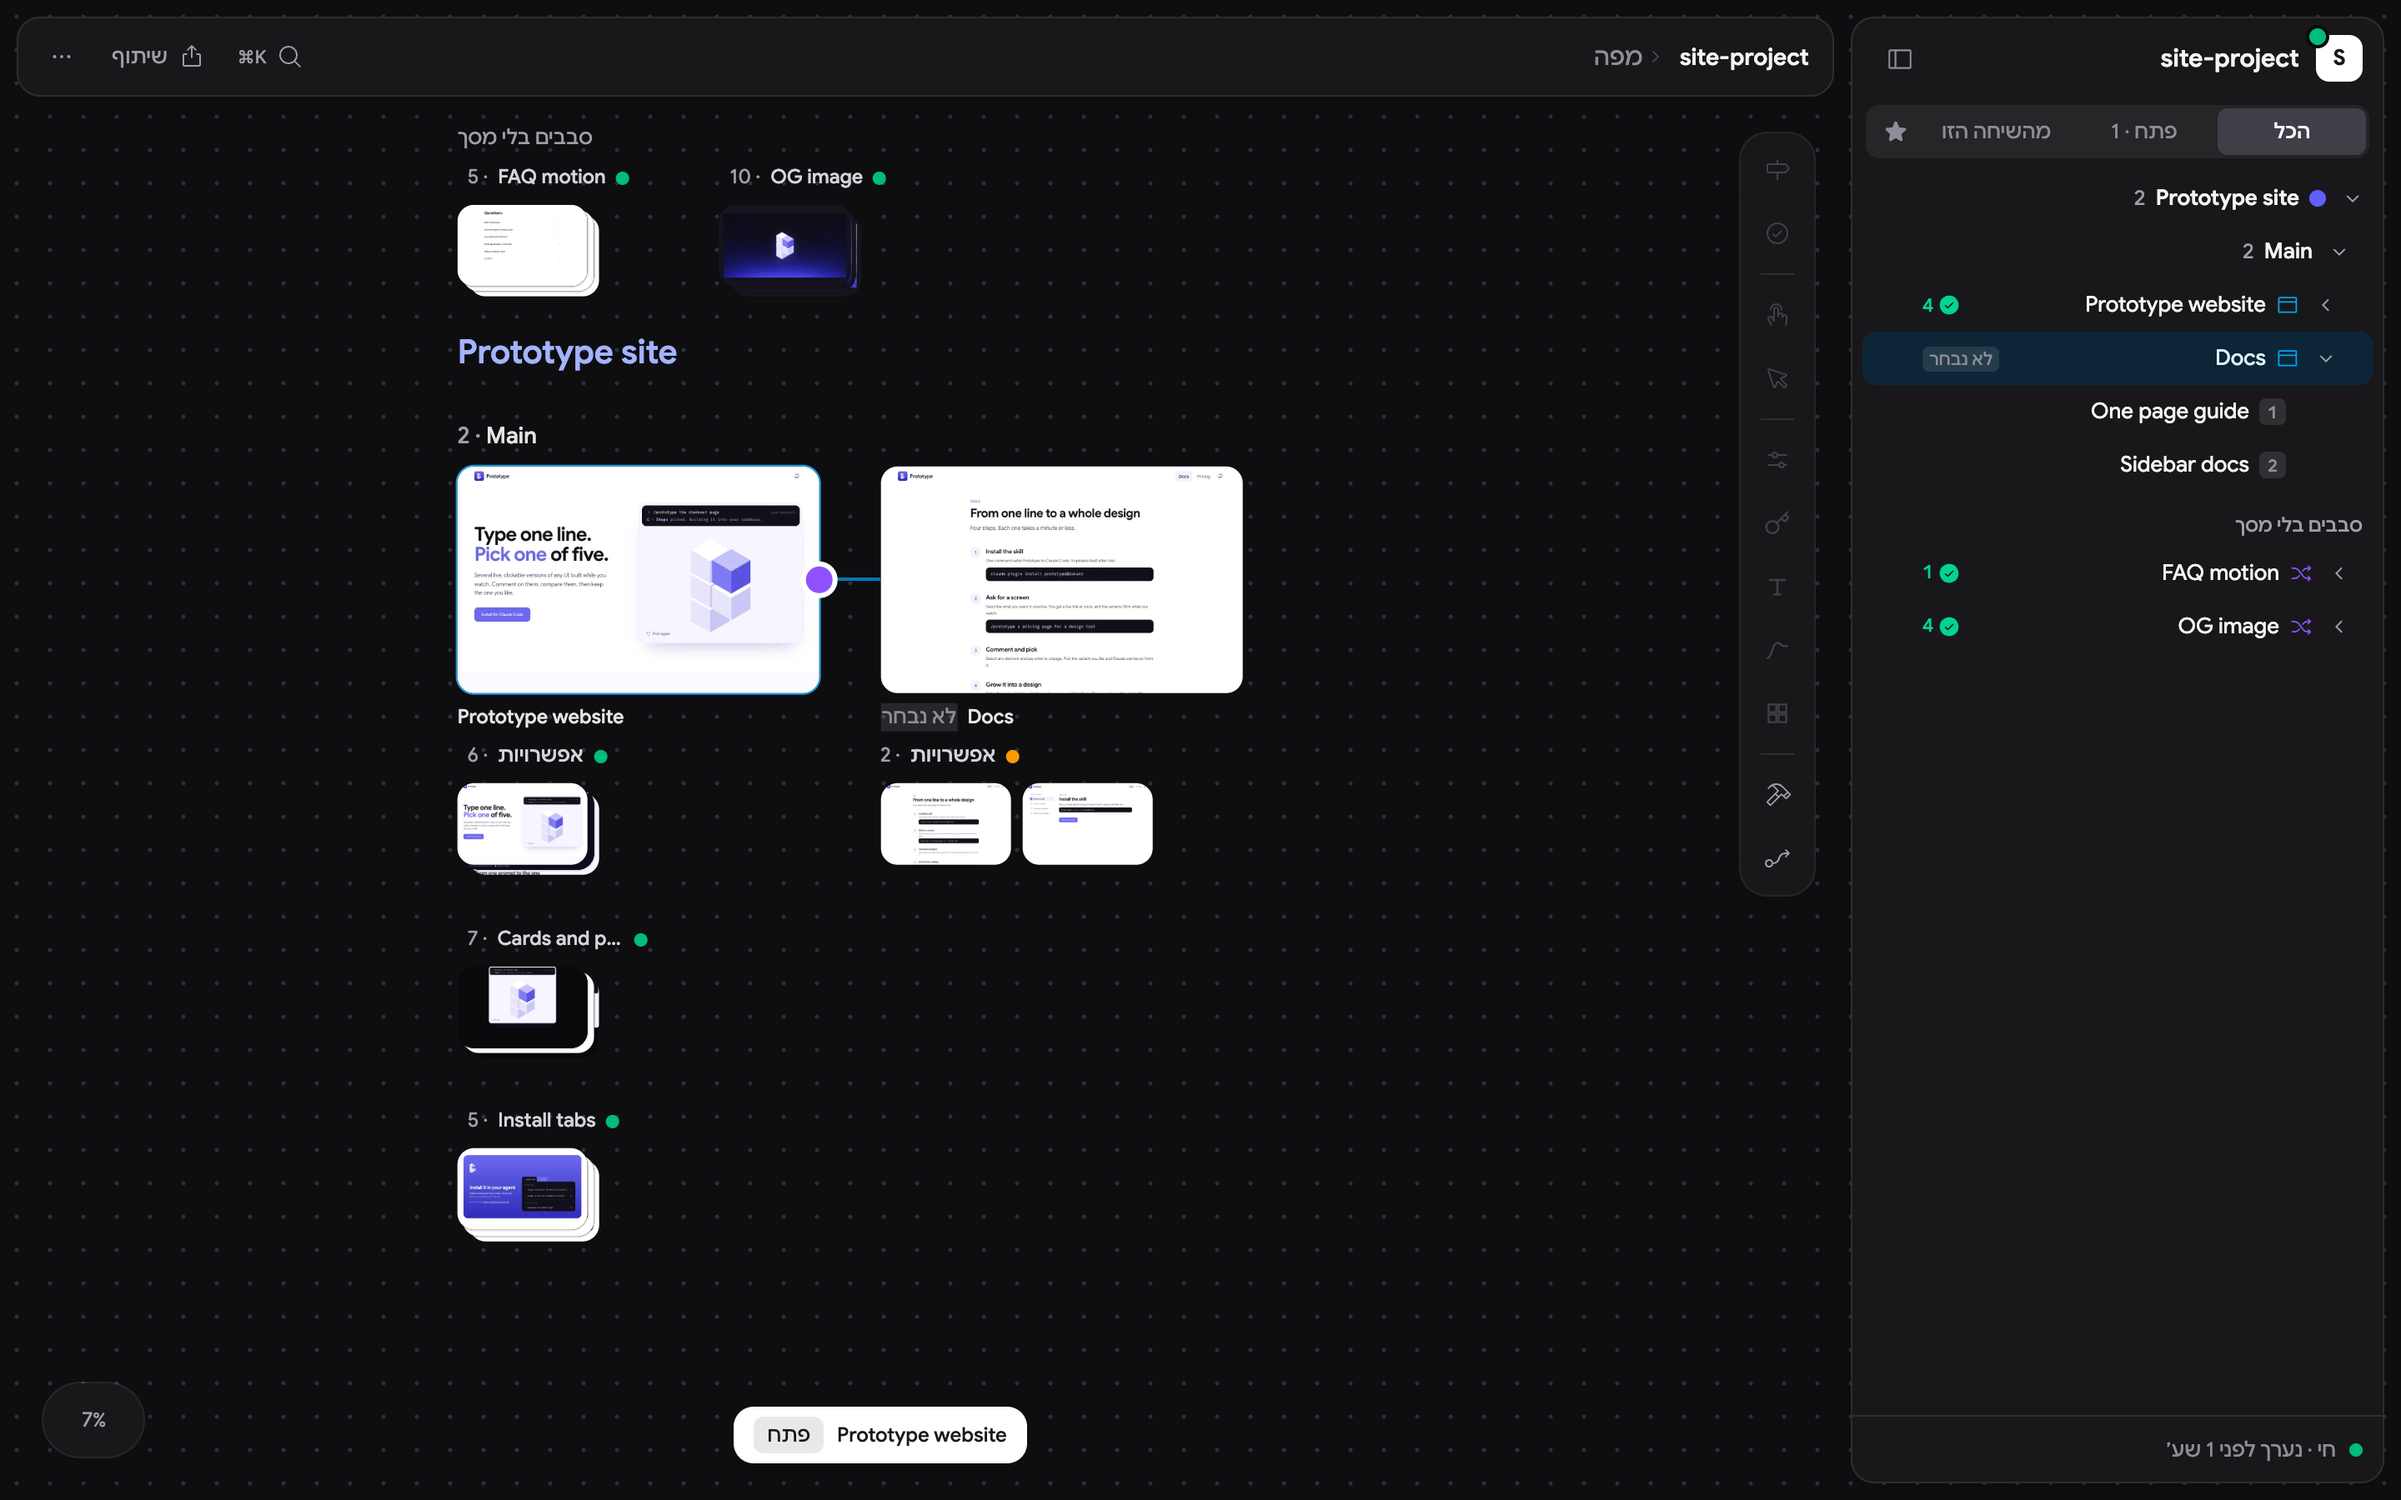
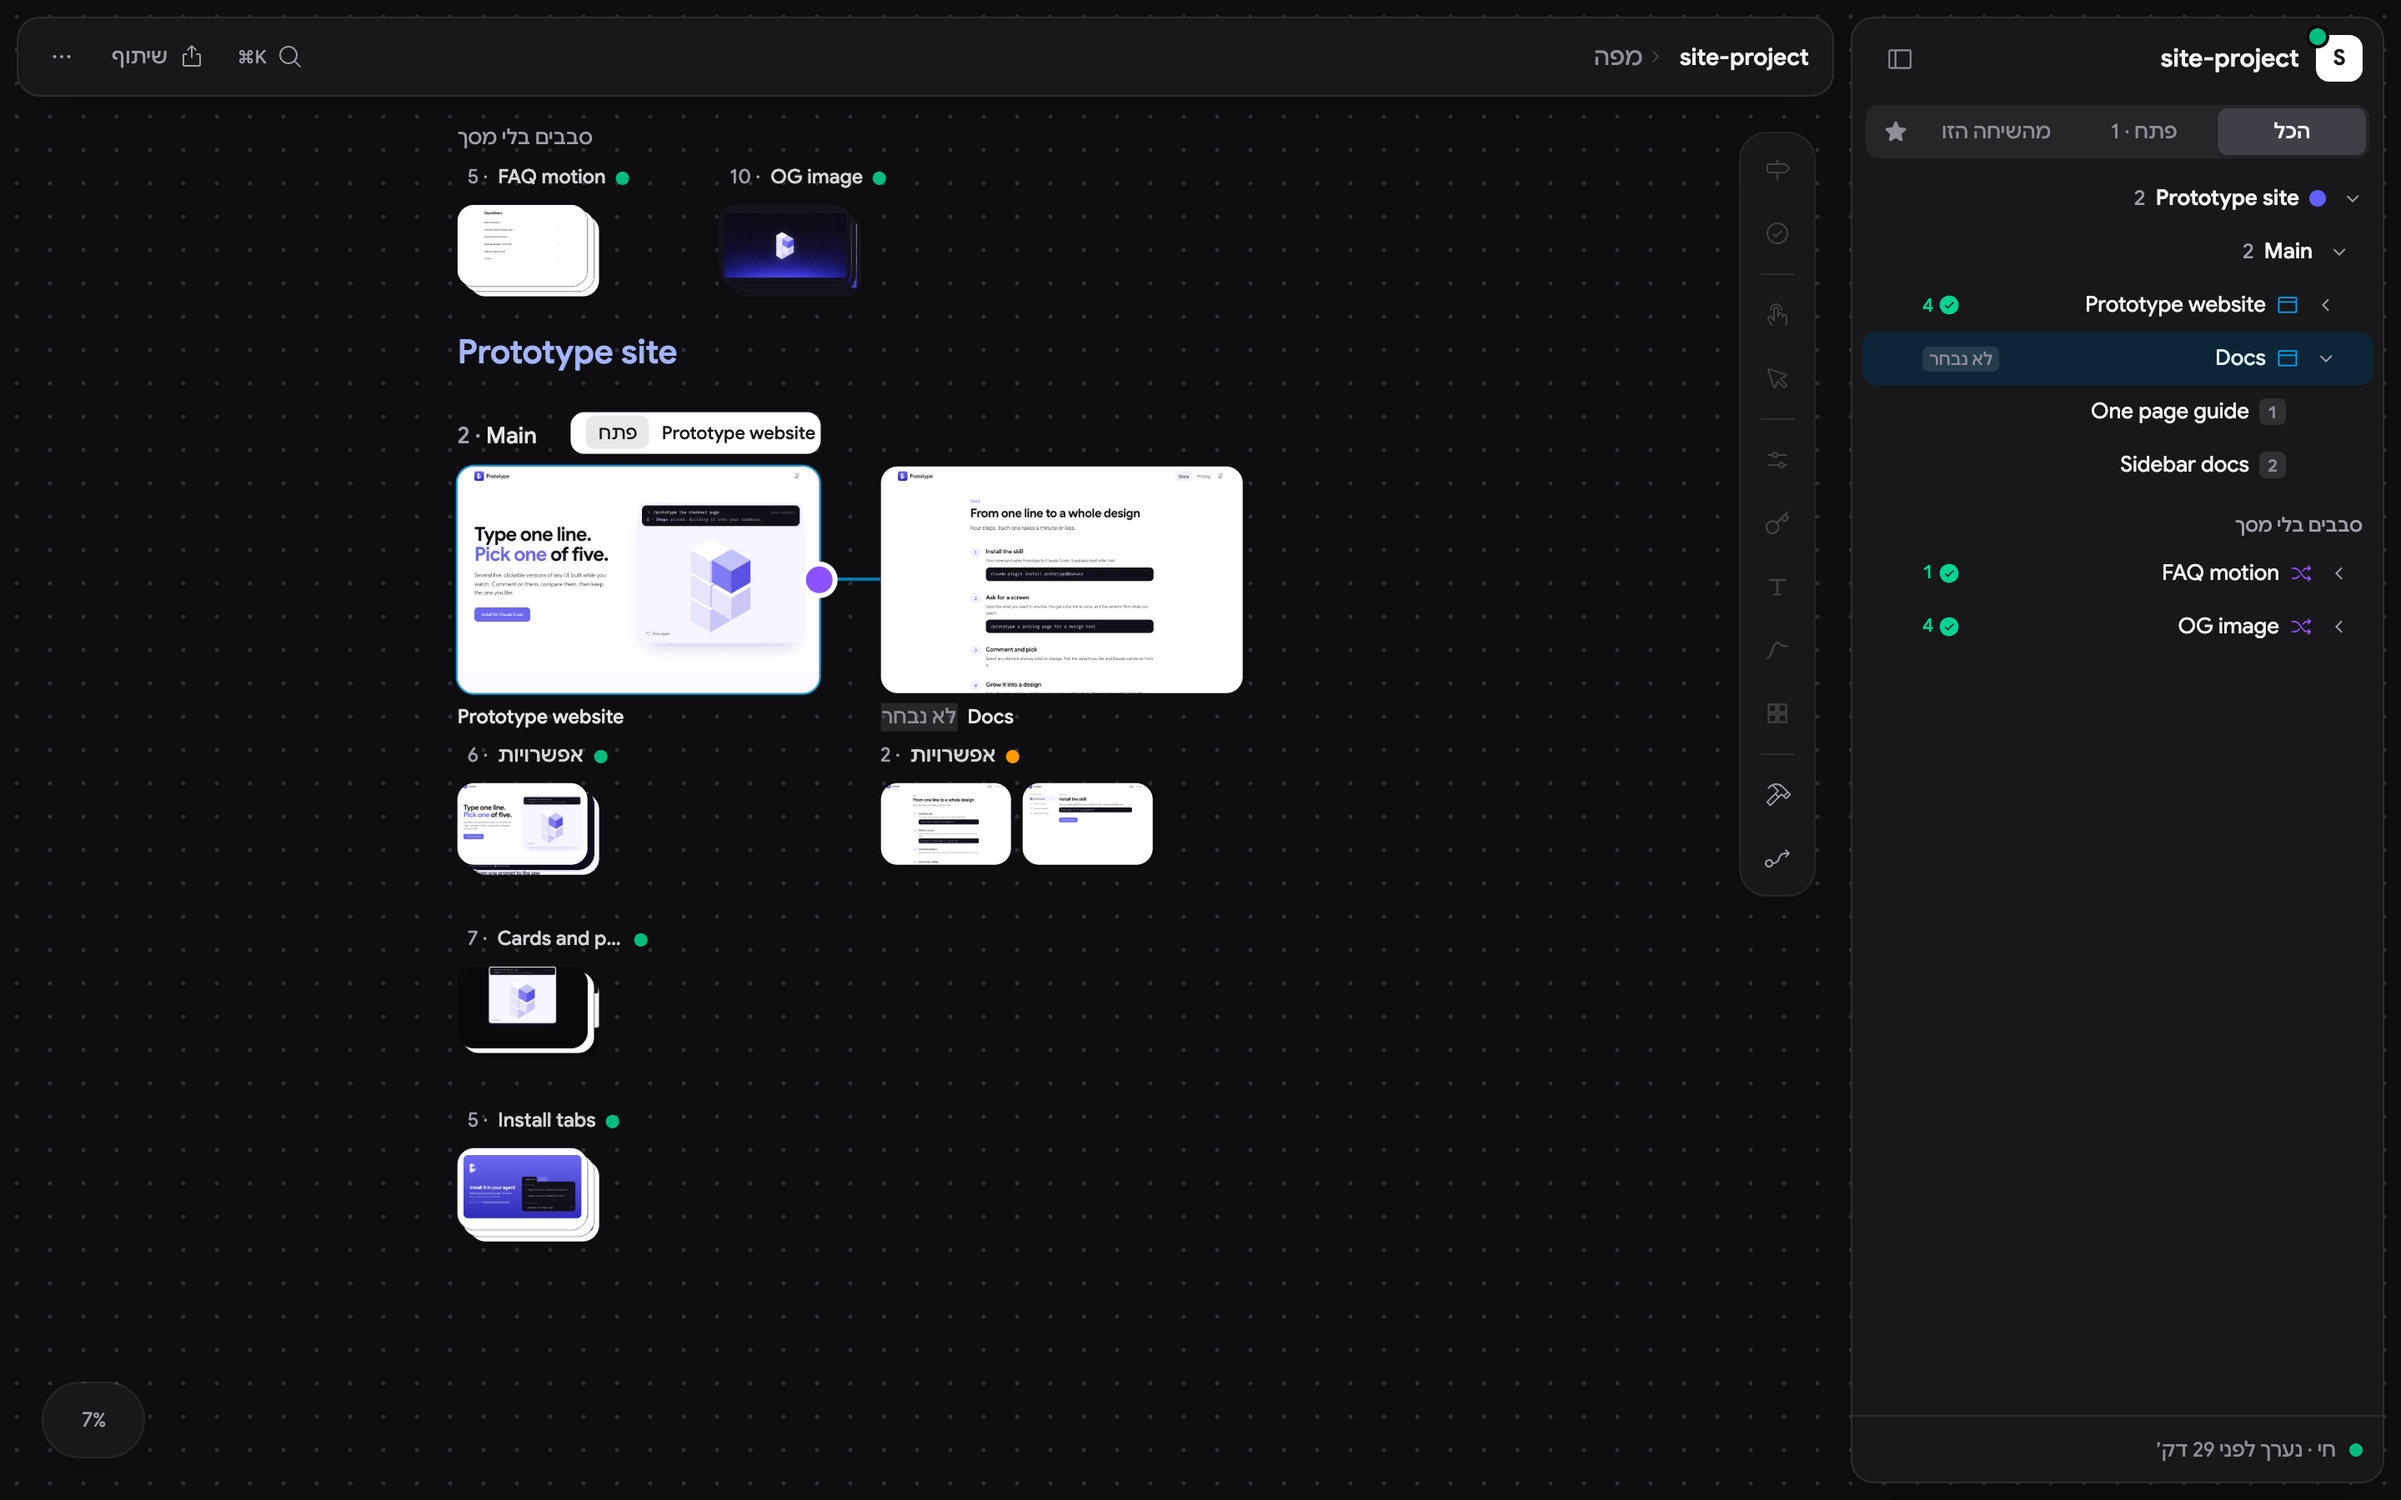
fix: the selected board's name and Open sit on its corner, not under the comments island
The map's selection bar was centred at the foot of the stage, where the island rests, so it showed
as a white bar behind it. It is a chip on the selected board's top corner now, one size on screen.

Changed region(s): [[0.2812, 0.9333, 0.4375, 0.9956], [0.2188, 0.2489, 0.3438, 0.3111]]

diff --git a/app/shell/map/index.tsx b/app/shell/map/index.tsx
@@ -338,7 +338,7 @@ function MapView({ api }: { api: MapApi }) {
     const el = view.current!, pts = new Map<number, { x: number; y: number }>()
     let last: { x: number; y: number; d: number } | null = null, moved = 0
     const mid = () => { const p = [...pts.values()]; const x = p.reduce((a, q) => a + q.x, 0) / p.length, y = p.reduce((a, q) => a + q.y, 0) / p.length; return { x, y, d: p.length > 1 ? Math.hypot(p[0].x - p[1].x, p[0].y - p[1].y) : 0 } }
-    const down = (e: PointerEvent) => { if (e.button > 1 || (e.target as HTMLElement).closest?.('[data-map-handle], [data-map-note], [data-map-tools], [data-map-slot]')) return; pts.set(e.pointerId, { x: e.clientX, y: e.clientY }); last = mid(); moved = 0; dragged.current = 0 }
+    const down = (e: PointerEvent) => { if (e.button > 1 || (e.target as HTMLElement).closest?.('[data-map-handle], [data-map-note], [data-map-tools], [data-map-slot], [data-map-chip]')) return; pts.set(e.pointerId, { x: e.clientX, y: e.clientY }); last = mid(); moved = 0; dragged.current = 0 }
     const move = (e: PointerEvent) => {
       if (!pts.has(e.pointerId)) return
       pts.set(e.pointerId, { x: e.clientX, y: e.clientY })
@@ -536,6 +536,15 @@ function MapView({ api }: { api: MapApi }) {
             </g>)}
             {drag && <path data-map-drag d={`M${drag.from.x + drag.from.w},${drag.from.y + drag.from.h / 2} L${drag.x},${drag.y}`} fill="none" className="stroke-violet-500" style={{ strokeWidth: 'calc(2px * var(--iz))', strokeDasharray: 'calc(6px * var(--iz))' }} />}
           </svg>
+          {selBoard && selBoard !== focusBoard && !note && !build && (
+            // The selected board's chip, on its top corner (one size on screen): its name and Open, as a click on
+            // the board does. On the board, not at the foot of the stage, where the comments island rests.
+            <div data-map-chip className="absolute z-30 flex items-center whitespace-nowrap bg-zinc-900 text-white shadow-lg dark:bg-white dark:text-zinc-900"
+              style={{ left: selBoard.x + selBoard.w, top: selBoard.y, transform: 'translate(-100%, calc(-100% - 8px * var(--lz)))', fontSize: 'calc(12px * var(--lz))', gap: 'calc(8px * var(--lz))', borderRadius: 'calc(9px * var(--lz))', padding: 'calc(3px * var(--lz)) calc(3px * var(--lz)) calc(3px * var(--lz)) calc(10px * var(--lz))' }}>
+              <span dir="auto" className="font-medium">{selBoard.title}</span>{selBoard.kind === 'option' && <span className="opacity-60">#{numberOf(selBoard.letter)}</span>}
+              <button type="button" data-map-open onClick={e => { e.stopPropagation(); openBoard(selBoard) }} className="bg-white/15 dark:bg-zinc-900/10" style={{ borderRadius: 'calc(6px * var(--lz))', padding: 'calc(2px * var(--lz)) calc(8px * var(--lz))' }}>{t('Open')}</button>
+            </div>
+          )}
           {world.labels.map(l => (
             // Above its anchor, one size on screen: a design's name over its first flow's, a flow's over its row.
             // Rounds name themselves once their cards are big enough to tell apart; a long name truncates at its round's width.
@@ -642,12 +651,6 @@ function MapView({ api }: { api: MapApi }) {
         </div>}
         {build && one && !note && <BuildBox design={one} boards={world.boards} api={api} onClose={() => setBuild(false)} />}
         {note && <NoteBox key={`${note.kind}:${note.a.key}:${'b' in note ? note.b.key : note.flow}`} note={note} api={api} onClose={() => setNote(null)} />}
-        {selBoard && selBoard !== focusBoard && !note && !build && (
-          <div className="absolute inset-x-0 bottom-3 mx-auto flex w-fit max-w-[calc(100%-2rem)] items-center gap-2 rounded-xl max-sm:bottom-14 bg-zinc-900 px-3 py-1.5 text-[12px] text-white shadow-lg dark:bg-white dark:text-zinc-900">
-            <span dir="auto" className="font-medium">{selBoard.title}</span>{selBoard.kind === 'option' && <span className="opacity-60">#{numberOf(selBoard.letter)}</span>}
-            <button type="button" data-map-open onClick={() => openBoard(selBoard)} className="rounded-md bg-white/15 px-2 py-0.5 dark:bg-zinc-900/10">{t('Open')}</button>
-          </div>
-        )}
       </div>
     </div>
   )
